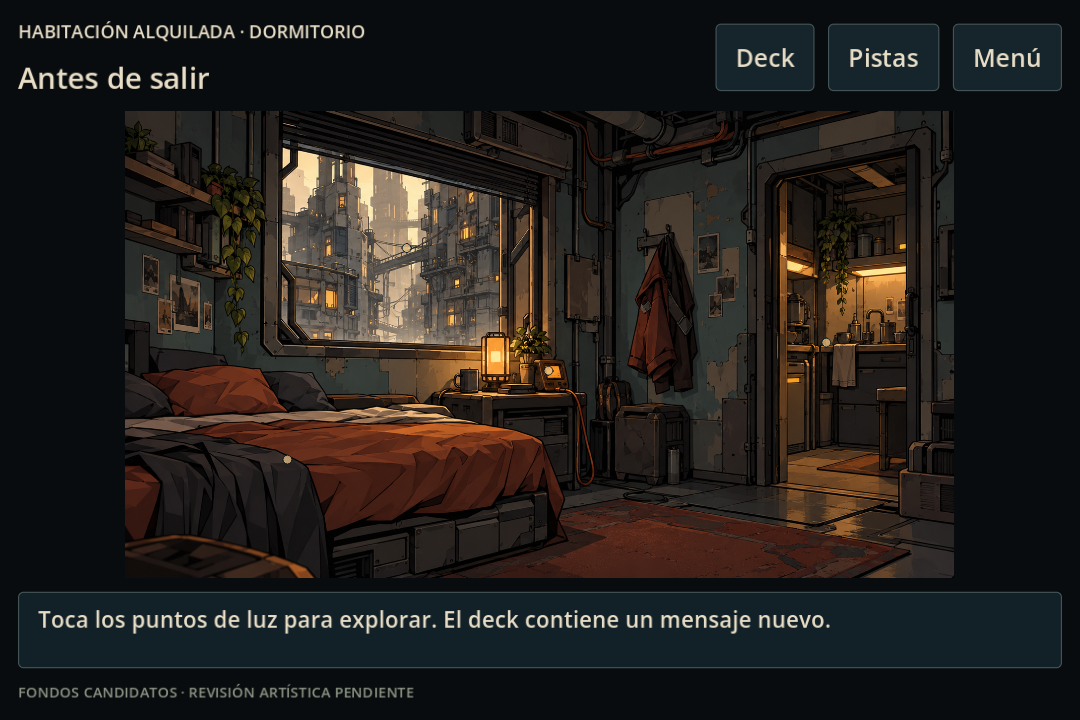
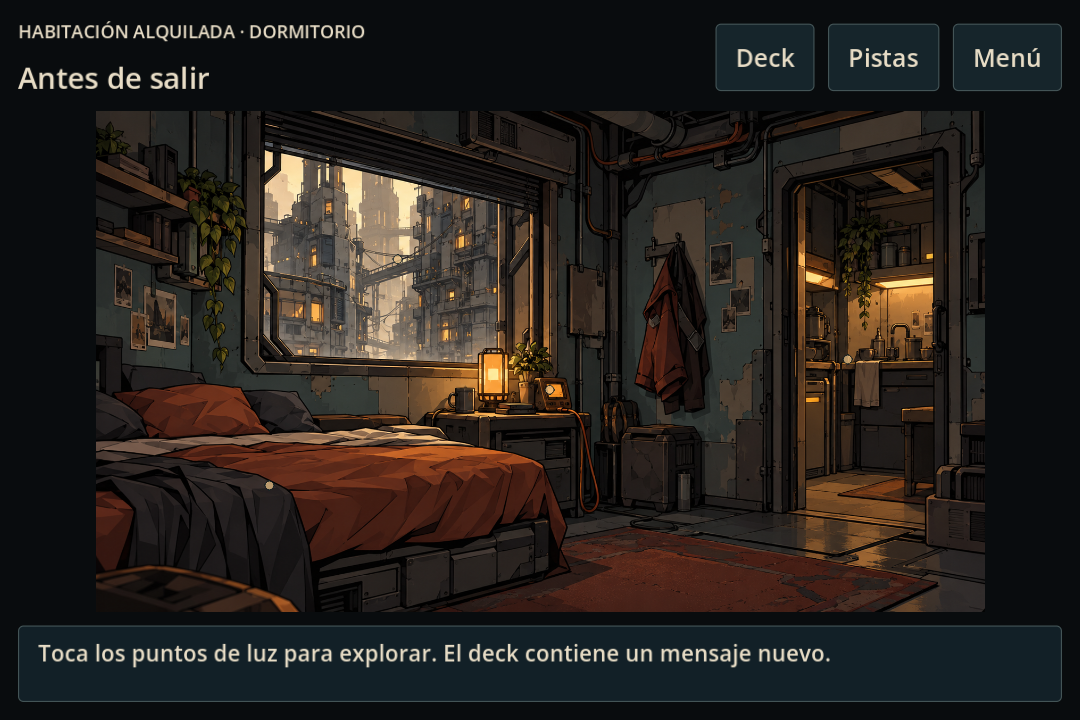
fix: ordenar la exploración en móvil vertical

diff --git a/docs/VALIDACION.md b/docs/VALIDACION.md
@@ -7,8 +7,8 @@
 | Comprobación | Resultado |
 | --- | --- |
 | Importación del proyecto y arranque | Sin errores de script/importación registrados |
-| `tests/run.gd`, headless | **179 comprobaciones, 0 fallos** |
-| Mismo recorrido nativo con GPU Apple M4 | **198 comprobaciones, 0 fallos**; incluye 19 capturas |
+| `tests/run.gd`, headless | **184 comprobaciones, 0 fallos** |
+| Mismo recorrido nativo con GPU Apple M4 | **203 comprobaciones, 0 fallos**; incluye 19 capturas |
 | `tests/preservation.py` | Canon, cinco originales, dos copias de diálogo idénticos; un proyecto activo; ninguna dependencia 3D |
 | Exportación Web, sin hilos | Generada correctamente con las plantillas 4.7.2 |
 
@@ -18,7 +18,7 @@ Las pruebas cubren: IDs/destinos y condiciones, cuatro zonas/doce vistas registr
 
 Entrada: eventos `InputEventMouseButton` y `InputEventScreenTouch` entregados al viewport. Se pulsa también la opción de diálogo mediante su botón. No son pruebas con un dedo físico.
 
-Resoluciones nativas capturadas: 1280×720, 844×390, 1024×768 y 390×844. Ilustración completa, controles dentro del encuadre; diálogo desplazable. Horizontal es la composición recomendada. En vertical los hotspots permanecen sobre la imagen y la lista de acciones sólo aparece al abrir «Pistas».
+Resoluciones nativas capturadas: 1280×720, 844×390, 1024×768 y 390×844. Ilustración completa, controles dentro del encuadre; diálogo desplazable. Horizontal es la composición recomendada. En vertical la escena y la observación aparecen juntas, el texto tiene espacio para varias líneas y los hotspots permanecen sobre la imagen. La prueba también cambia de vertical a horizontal y vuelve sin reconstruir la escena. La lista de acciones sólo aparece al abrir «Pistas».
 
 [Log headless](evidence/pruebas_headless.log) · [Log GPU](evidence/pruebas_nativas.log) · [Integridad](evidence/preservacion.log).
 
@@ -29,6 +29,8 @@ Helium/Chromium, WebGL 2, servidor HTTP local. Comprobados visualmente menú, in
 Se ajusta el viewport a 844×390. Un `TouchEvent` de inicio/fin enviado al canvas sobre Deck abre su interfaz. Es una comprobación del recorrido táctil del navegador de escritorio, no una certificación de Safari ni de un teléfono real.
 
 Consola sin errores de ejecución registrados en la revisión del hito 1. En la corrección móvil posterior, se reemplazaron los indicadores con letras y rótulos por puntos de luz y áreas táctiles transparentes. A 844×390 se comprobó visualmente el dormitorio, un `TouchEvent` sobre la puerta que lleva a la cocina, una observación sobre el suministro y la apertura del terminal desde «Pistas». Tras acotar las áreas, se repitió en la nueva exportación Web: toque próximo al punto sin navegar; toque central con navegación correcta.
+
+La exportación Web posterior se probó también a 390×844: escena y observación juntas, texto legible, toque fuera del punto sin navegación y toque central que abre la cocina. No se recortó la ilustración para llenar la pantalla vertical.
 
 [Consola](evidence/web_consola.log) · [Errores](evidence/web_errores.log) · [Antes de recargar](evidence/web_cocina_antes_recarga.png) · [Después](evidence/web_cocina_tras_recarga.png) · [Toque sobre Deck](evidence/web_toque_deck.png).
 
@@ -41,6 +43,7 @@ La persistencia observada es entre recargas del mismo origen y perfil. Borrar al
 - [Baño](evidence/08_bano.png), [Sota sola](evidence/09_monologo.png), [La Fiebre](evidence/10_fiebre.png), [diálogo](evidence/11_dialogo.png).
 - [Horizontal móvil](evidence/dialogo_844x390.png), [vertical](evidence/viewport_390x844.png).
 - [Dormitorio Web con puntos discretos](evidence/web_movil_sutil_dormitorio.png), [cocina tras toque directo](evidence/web_movil_sutil_toque.png), [acciones a petición](evidence/web_movil_sutil_pistas.png).
+- [Escena vertical Web](evidence/web_movil_vertical_escena.png), [cocina tras toque vertical](evidence/web_movil_vertical_toque.png).
 
 Son capturas del juego ejecutándose, no maquetas. Los PNG fuente de fondos no se utilizan como prueba de interfaz. Se revisaron composición, retratos, etiquetas, desplazamiento y transiciones. Se corrigieron botones superpuestos, referencias a pantallas liberadas al redimensionar y opciones de diálogo recortadas en vertical.
 

diff --git a/proceso/ESTADO_DEL_PROYECTO.md b/proceso/ESTADO_DEL_PROYECTO.md
@@ -30,7 +30,7 @@ Cotas, jerarquía, tecnología física y límites de la Nómina proceden del can
 
 ## Resultados probados
 
-Importación y arranque correctos. **179 comprobaciones headless y 198 nativas con GPU, cero fallos**, incluidas 19 capturas reales. Integridad de canon, cinco originales y dos copias; una única implementación sin dependencia 3D. Web exportada y comprobada en Helium/WebGL 2: clic, toque sintético, contrato y recuperación de ubicación/progreso después de recargar. Cuatro tamaños de viewport nativo, incluido vertical. Tras las correcciones de interacción, se verificaron la pulsación directa en vertical, el panel «Pistas» y, en Web a 844×390, un toque fuera del área acotada que no navega seguido de otro en el centro que sí lo hace.
+Importación y arranque correctos. **184 comprobaciones headless y 203 nativas con GPU, cero fallos**, incluidas 19 capturas reales. Integridad de canon, cinco originales y dos copias; una única implementación sin dependencia 3D. Web exportada y comprobada en Helium/WebGL 2: clic, toque sintético, contrato y recuperación de ubicación/progreso después de recargar. Cuatro tamaños de viewport nativo, incluido vertical. Tras las correcciones de interacción, se verificaron la pulsación directa en vertical, el panel «Pistas» y, en Web a 844×390 y 390×844, un toque fuera del área acotada que no navega seguido de otro en el centro que sí lo hace. En vertical se comprobaron además la escena y el texto de observación juntos y legibles, y un cambio de orientación sin reconstruir la escena.
 
 [Resultados, evidencias y límites](../docs/VALIDACION.md). No se han probado móviles físicos, Safari/iOS, Windows ni Linux. El navegador depende de su almacenamiento local. No hay música ni efectos finales; los buses están preparados. Las pruebas técnicas no constituyen aprobación artística.
 
@@ -44,5 +44,6 @@ Revisión del autor sobre la propuesta narrativa y los cuatro fondos. Completar 
 - **20 oct 2026 · entrega del asistente:** retiro recuperable, proyecto único, hito 1 jugable y pruebas descritas arriba. **Pendiente de revisión narrativa y artística por el autor.**
 - **20 oct 2026 · corrección solicitada por el autor:** retirar los rótulos y botones grandes sobre los objetos, con prioridad móvil. **Entrega del asistente:** puntos pequeños, toque directo sobre la imagen y acciones nombradas sólo al abrir «Pistas». Verificación técnica y visual realizada; el autor aún no ha aprobado esta presentación.
 - **20 oct 2026 · segunda corrección solicitada por el autor:** reducir el tamaño de las áreas pulsables. **Entrega del asistente:** 56×56 unidades alrededor de cada punto, con pruebas dentro y fuera del área en Godot y Web. Pendiente de valorar la comodidad en teléfono físico.
+- **20 oct 2026 · continuación del asistente:** comprobación visual de los puntos del apartamento; agrupación de escena y observación en vertical y retirada del aviso técnico durante la exploración. Pruebas nativas y Web realizadas; diseño móvil pendiente de revisión del autor y de un teléfono físico.
 
 El historial de las etapas anteriores está íntegro en la rama de respaldo y la copia local; no describe la producción actual.

diff --git a/docs/GAME_DESIGN.md b/docs/GAME_DESIGN.md
@@ -43,6 +43,8 @@ Las fases futuras se prueban con datos sintéticos, pero **no se completan en el
 
 Hotspots con ID por pantalla, tipo, etiqueta, rectángulo normalizado, condición visible y disponible, y destino. El centro del rectángulo sitúa el punto de luz y un área pulsable fija de 56×56 unidades lógicas; el rectángulo completo no captura toques. El punto mide 9 unidades lógicas y no cubre la imagen con letras. «Pistas» abre, sólo a petición, la lista de acciones disponibles en la vista y permite ocultar los puntos. La ilustración se contiene completa en cada proporción.
 
+En móvil vertical, la escena conserva su proporción 16:9 y la observación queda justo debajo, con altura suficiente para leerla. La nota de revisión de los fondos se mantiene en el menú y la documentación, fuera de la exploración.
+
 - OBJECT: observación breve, sin diálogo modal.
 - PERSON: diálogo con temas, condiciones, efectos, elecciones y salida.
 - TERMINAL: menú de registros locales con arranque breve.

diff --git a/task.md b/task.md
@@ -24,6 +24,7 @@ Dirección del autor, 20 oct 2026: aventura **2D ilustrada en primera persona**,
 - [x] Guardado versionado, copia de seguridad, recuperación, continuar y reinicio confirmado.
 - [x] Opciones de volumen/buses, texto grande, indicadores y reducción de transiciones.
 - [x] Ratón y toque sobre áreas acotadas de la ilustración, puntos de luz discretos, lista de acciones a petición y desplazamiento de texto.
+- [x] Agrupar ilustración y observación en móvil vertical, sin recortar la vista; comprobar toque Web dentro y fuera del punto.
 - [x] Importación, pruebas automáticas, ejecución nativa con GPU y capturas reales.
 - [x] Exportación Web, clic/toque sintético, recarga y persistencia en navegador de escritorio.
 - [x] README, AGENTS, diseño, arte, recuperación y continuidad renovados.
